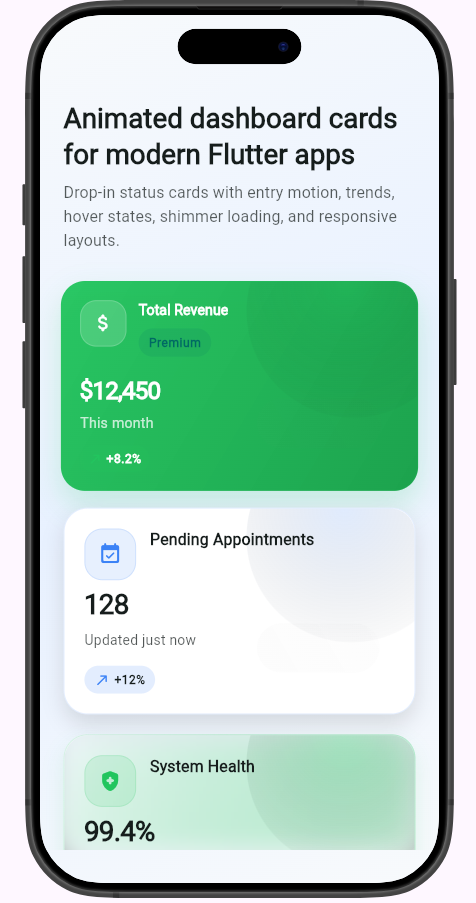
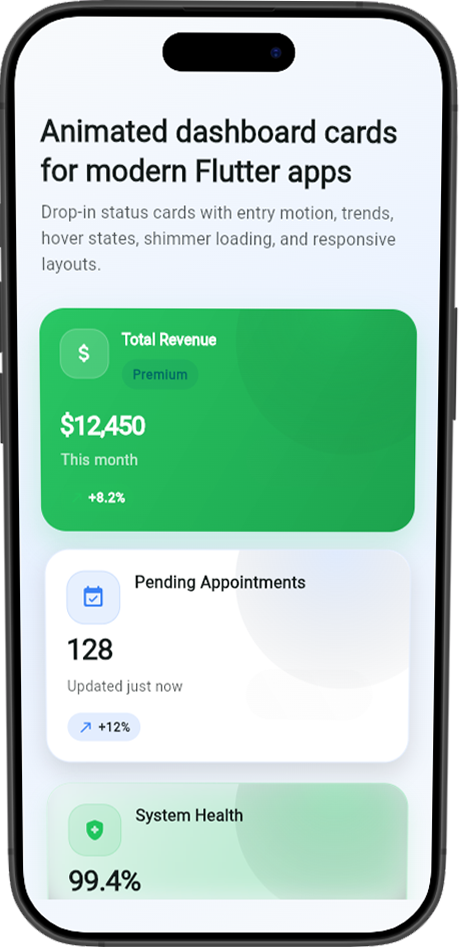
update readme.md

diff --git a/README.md b/README.md
@@ -46,9 +46,9 @@ Instead of manually wiring entry animations, trend labels, hover effects, loadin
 ## Preview
 
 <p align="center">
-  <img src="images/Screenshot-1.png" alt="Animated status card preview 1" width="30%" />
-  <img src="images/Screenshot-2.png" alt="Animated status card preview 2" width="30%" />
-  <img src="images/Screenshot-3.png" alt="Animated status card preview 3" width="30%" />
+  <img src="images/Screenshot-1.png" alt="Animated status card preview 1" width="240" height="495" />
+  <img src="images/Screenshot-2.png" alt="Animated status card preview 2" width="240" height="495" />
+  <img src="images/Screenshot-3.png" alt="Animated status card preview 3" width="240" height="495" />
 </p>
 
 ## Features
